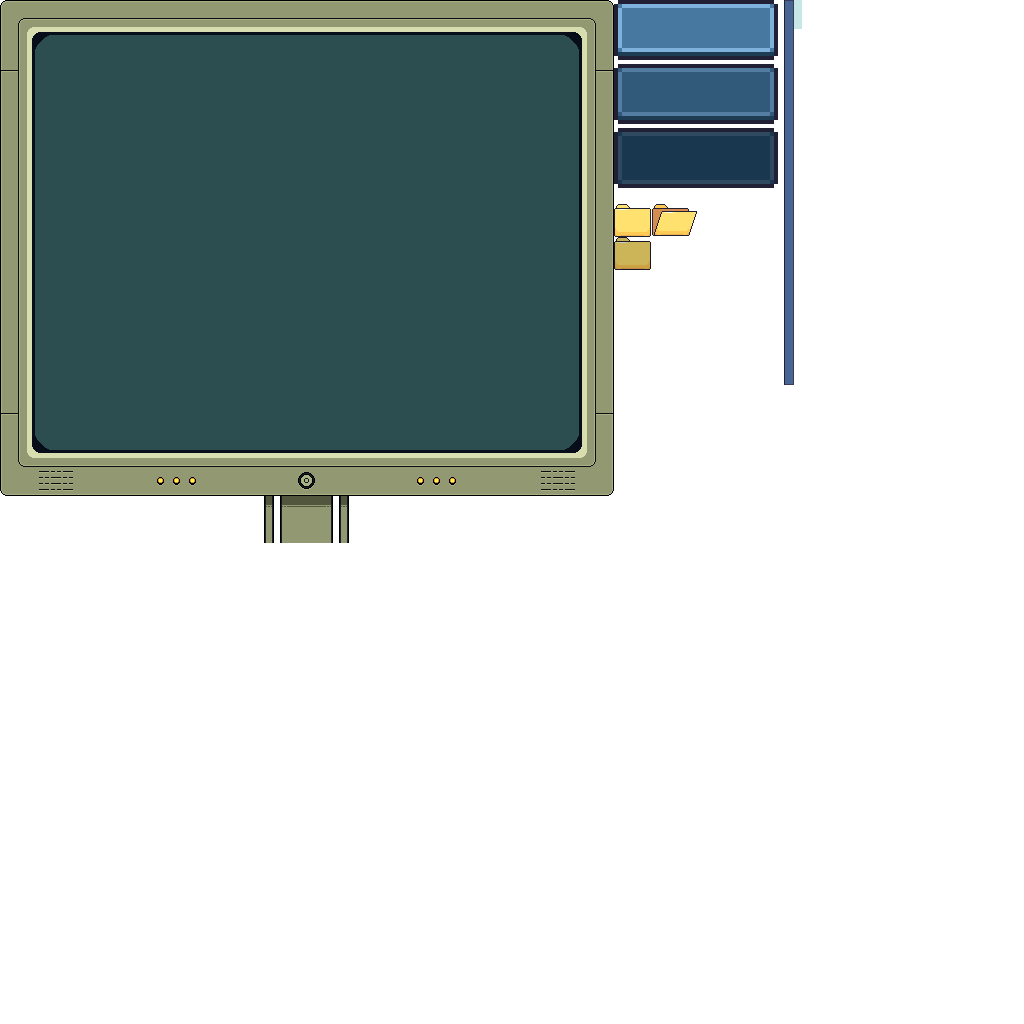
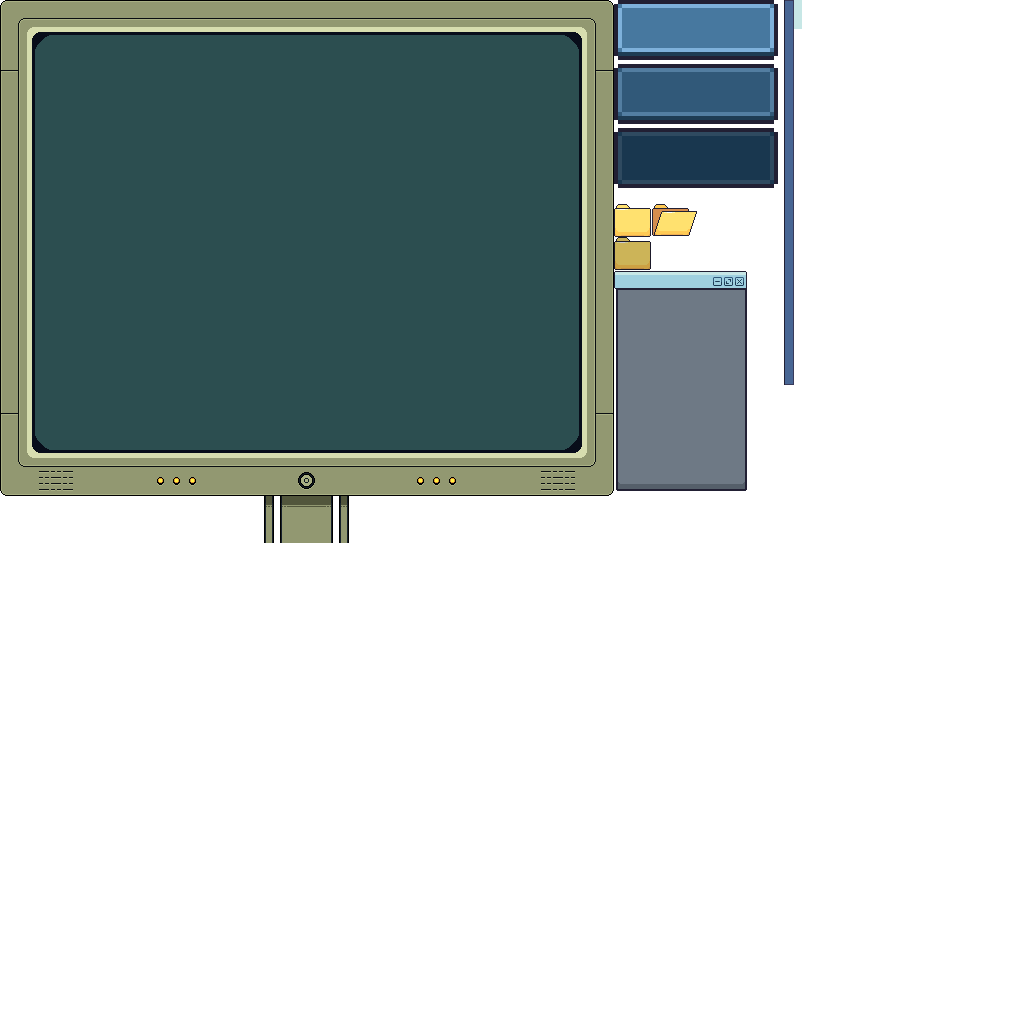
Improve level loading

Changed region(s): [[0.5938, 0.25, 0.75, 0.5]]

diff --git a/core/src/main/java/dev/juliusabels/fish_fiesta/util/LevelManager.java b/core/src/main/java/dev/juliusabels/fish_fiesta/util/LevelManager.java
@@ -5,9 +5,11 @@ import com.badlogic.gdx.Preferences;
 import com.badlogic.gdx.files.FileHandle;
 import com.badlogic.gdx.utils.JsonReader;
 import com.badlogic.gdx.utils.JsonValue;
+import com.badlogic.gdx.utils.Null;
 import dev.juliusabels.fish_fiesta.FishFiestaException;
 import dev.juliusabels.fish_fiesta.game.ConditionType;
 import dev.juliusabels.fish_fiesta.game.level.Level;
+import lombok.Getter;
 import lombok.extern.slf4j.Slf4j;
 
 import java.util.*;
@@ -20,6 +22,10 @@ public class LevelManager {
     private final Preferences preferences;
     private final List<String> levelIds = new ArrayList<>();
     private boolean levelsDiscovered = false;
+
+    @Getter
+    @Null
+    private Level activelevel;
 
     public LevelManager() {
         this.preferences = Gdx.app.getPreferences(PREFERENCES_NAME);
@@ -75,38 +81,82 @@ public class LevelManager {
         return levelId + ".lives";
     }
 
-    public Level loadLevel(String levelId) {
+    public boolean loadLevel(String levelId) {
         if (!levelIds.contains(levelId)) {
-            throw new FishFiestaException("Level not found: " + levelId);
+           log.error("Level {{}} not found", levelId);
+            return false;
         }
 
         FileHandle file = ResourceHandler.levelFileHandle(levelId + ".json");
         JsonValue levelJson = new JsonReader().parse(file);
 
         // Parse conditions
-        Map<ConditionType, String> conditions = new EnumMap<>(ConditionType.class);
+        Map<ConditionType, List<String>> conditions = new EnumMap<>(ConditionType.class);
         JsonValue conditionsJson = levelJson.get("conditions");
+        if (conditionsJson == null) {
+            log.error("{}.json has no valid 'conditions' block.", levelId);
+            return false;
+        }
 
         for (ConditionType type : ConditionType.values()) {
-            String typeName = type.name();
-            if (conditionsJson.has(typeName)) {
-                conditions.put(type, conditionsJson.getString(typeName));
+            String typeName = type.name().toLowerCase(); //I want the json values to be lowercase
+            if (!conditionsJson.has(typeName)) {
+                log.warn("Condition type {} not found in {} JSON", typeName, levelId);
+            } else {
+                JsonValue conditionValue = conditionsJson.get(typeName);
+                List<String> values = new ArrayList<>();
+
+                if (type.isAllowMultiple()) {
+                    if (conditionValue.isArray()) {
+                        // Handle array values
+                        for (JsonValue value = conditionValue.child; value != null; value = value.next) {
+                            values.add(value.asString().toUpperCase());
+                        }
+                    } else {
+                        // Handle single value
+                        values.add(conditionValue.asString().toUpperCase());
+                    }
+                } else {
+                    if (conditionValue.isArray()) {
+                        log.error("Condition {} should not be an array. Skipping condition", typeName);
+                        continue;
+                    }
+                    values.add(conditionValue.asString().toUpperCase());
+                }
+
+                conditions.put(type, values);
+                log.debug("Parsed condition: {} = {}", type, conditions.get(type));
             }
         }
 
         // Parse fish IDs
         List<String> fishIDs = new ArrayList<>();
         JsonValue fishIDsJson = levelJson.get("fishIDs");
+        if (fishIDsJson == null) {
+            log.error("{}.json has no valid fish array.", levelId);
+            return false;
+        }
+
         for (JsonValue fishId = fishIDsJson.child; fishId != null; fishId = fishId.next) {
             fishIDs.add(fishId.asString());
         }
 
+        if (conditions.isEmpty()) {
+            log.error("No conditions were loaded for level {{}}", levelId);
+            return false;
+        }
+
+        if (fishIDs.isEmpty()) {
+            log.error("No fishes were loaded for level {{}}", levelId);
+            return false;
+        }
+
         Level level = new Level(levelId, conditions, fishIDs);
         level.setCompleted(isLevelCompleted(levelId));
-        level.setRemainingLives(isLevelCompleted(levelId) ?
-            getRemainingLives(levelId) : 3);
+        level.setRemainingLives(isLevelCompleted(levelId) ? getRemainingLives(levelId) : 3);
+        this.activelevel = level;
 
-        return level;
+        return true;
     }
 
     public void saveLevelMetric(String levelId, String metricName, String value) {

diff --git a/core/src/main/java/dev/juliusabels/fish_fiesta/game/ConditionType.java b/core/src/main/java/dev/juliusabels/fish_fiesta/game/ConditionType.java
@@ -4,35 +4,51 @@ import dev.juliusabels.fish_fiesta.game.features.SizeCategory;
 import dev.juliusabels.fish_fiesta.game.features.WaterSubtype;
 import dev.juliusabels.fish_fiesta.game.features.WaterTemperature;
 import dev.juliusabels.fish_fiesta.game.features.WaterType;
+import lombok.Getter;
+
+import java.util.List;
 
 public enum ConditionType {
-    WATER_TYPE {
+    WATER_TYPE(false) {
         @Override
-        public boolean isSatisfied(WaterCreature creature, String value) {
-            WaterType requiredType = WaterType.valueOf(value);
-            return creature.getWaterTypes().contains(requiredType);
+        public boolean isSatisfied(WaterCreature creature, List<String> values) {
+            return values.stream()
+                .map(WaterType::valueOf)
+                .anyMatch(type -> creature.getWaterTypes().contains(type));
         }
     },
-    WATER_SUBTYPE {
+    WATER_SUBTYPE(false) {
         @Override
-        public boolean isSatisfied(WaterCreature creature, String value) {
-            WaterSubtype requiredSubtype = WaterSubtype.valueOf(value);
-            return creature.getWaterSubtypes().contains(requiredSubtype);
+        public boolean isSatisfied(WaterCreature creature, List<String> values) {
+            return values.stream()
+                .map(WaterSubtype::valueOf)
+                .anyMatch(subtype -> creature.getWaterSubtypes().contains(subtype));
         }
     },
-    SIZE_CATEGORY {
+    SIZE(true) {
         @Override
-        public boolean isSatisfied(WaterCreature creature, String value) {
-            SizeCategory requiredSize = SizeCategory.valueOf(value);
-            return creature.getSize().getCategoriesFromSize() == requiredSize;
+        public boolean isSatisfied(WaterCreature creature, List<String> values) {
+            SizeCategory creatureSize = creature.getSize().getCategoriesFromSize();
+            return values.stream()
+                .map(SizeCategory::valueOf)
+                .anyMatch(size -> creatureSize == size);
         }
     },
-    TEMPERATURE {
+    TEMPERATURE(false) {
         @Override
-        public boolean isSatisfied(WaterCreature creature, String value) {
-            WaterTemperature temperature = WaterTemperature.valueOf(value);
-            return creature.getWaterTemperatures().contains(temperature);
+        public boolean isSatisfied(WaterCreature creature, List<String> values) {
+            return values.stream()
+                .map(WaterTemperature::valueOf)
+                .anyMatch(temp -> creature.getWaterTemperatures().contains(temp));
         }
     };
-    public abstract boolean isSatisfied(WaterCreature creature, String value);
+
+    @Getter
+    private final boolean allowMultiple;
+
+    ConditionType(boolean allowMultiple) {
+        this.allowMultiple = allowMultiple;
+    }
+
+    public abstract boolean isSatisfied(WaterCreature creature, List<String> values);
 }

diff --git a/core/src/main/java/dev/juliusabels/fish_fiesta/screens/level/LevelScreen.java b/core/src/main/java/dev/juliusabels/fish_fiesta/screens/level/LevelScreen.java
@@ -2,20 +2,31 @@ package dev.juliusabels.fish_fiesta.screens.level;
 
 import com.badlogic.gdx.Gdx;
 import com.badlogic.gdx.Input;
+import com.badlogic.gdx.scenes.scene2d.ui.Table;
 import dev.juliusabels.fish_fiesta.FishFiestaGame;
+import dev.juliusabels.fish_fiesta.game.level.Level;
 import dev.juliusabels.fish_fiesta.screens.FFBaseScreen;
-import dev.juliusabels.fish_fiesta.screens.MainMenuScreen;
 import dev.juliusabels.fish_fiesta.screens.overlay.DialogButton;
 import dev.juliusabels.fish_fiesta.screens.overlay.DialogOverlay;
 
 public class LevelScreen extends FFBaseScreen {
     private DialogOverlay exitDialog;
-    private String id;
+    private Level currentLevel;
 
-    public LevelScreen(FishFiestaGame game, String id) {
+    public LevelScreen(FishFiestaGame game, Level currentLevel) {
         super(game);
-        this.id = id;
+        this.currentLevel = currentLevel;
         exitDialog = new DialogOverlay(game, stage);
+    }
+
+    public void show() {
+        super.show();
+
+        contentTable.clear();
+
+        Table conditionList = new Table();
+        conditionList.background(this.monitorSkin.getDrawable("guestlist-window"));
+        contentTable.add(conditionList).expand().right().padRight(20).padBottom(130);
     }
 
     //TODO For level screen we want continue playing, exit to level selection, safe level state, restart level

diff --git a/core/src/main/java/dev/juliusabels/fish_fiesta/screens/level/LevelSelectionScreen.java b/core/src/main/java/dev/juliusabels/fish_fiesta/screens/level/LevelSelectionScreen.java
@@ -87,7 +87,11 @@ public class LevelSelectionScreen extends FFBaseScreen {
             button.addListener(new ClickListener() {
                 @Override
                 public void clicked(InputEvent event, float x, float y) {
-                    game.setScreen(new LevelScreen(game, levelId));
+                    if (levelManager.loadLevel(levelId) && levelManager.getActivelevel() != null) {
+                        game.setScreen(new LevelScreen(game, levelManager.getActivelevel()));
+                    } else {
+                        log.error("Unable to load level from id: {}", levelId);
+                    }
                 }
             });
             levelCell.add(button).row();

diff --git a/core/src/main/java/dev/juliusabels/fish_fiesta/game/level/Level.java b/core/src/main/java/dev/juliusabels/fish_fiesta/game/level/Level.java
@@ -11,14 +11,14 @@ import java.util.Map;
 @Getter
 public class Level {
     private final String id;
-    private final Map<ConditionType, String> conditions;
+    private final Map<ConditionType, List<String>> conditions;
     private final List<String> fishIDs;
     @Setter
     private boolean completed;
     @Setter
     private int remainingLives;
 
-    public Level(String id, Map<ConditionType, String> conditions, List<String> fishIds) {
+    public Level(String id, Map<ConditionType, List<String>> conditions, List<String> fishIds) {
         this.id = id;
         this.conditions = conditions;
         this.fishIDs = fishIds;

diff --git a/Plan.md b/Plan.md
@@ -4,6 +4,8 @@ Possible assets:
 - https://humblepixel.itch.io/pocket-inventory-series-5-player-status
 - Commission tofupixel for background art
 - https://kenney.nl/assets/category:2D?sort=update
+- https://seliel-the-shaper.itch.io/fishing-gear
+- https://cyangmou.itch.io/pixel-rpg-icons-fishing-16x16
 
 Useful stuff:
 - https://mana-break.blogspot.com/2014/06/power-of-json-in-game-development-items.html
